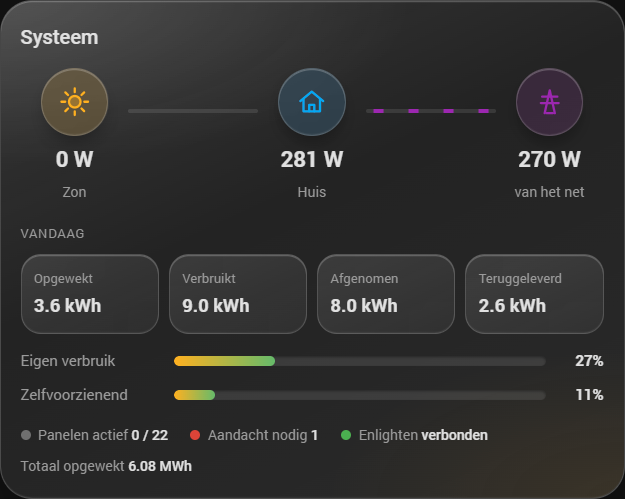
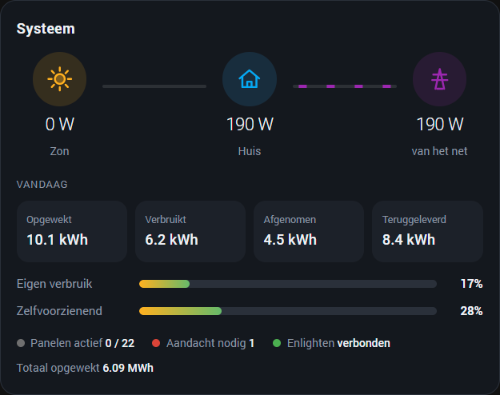
README images in the Clean style
Claude-Session: https://claude.ai/code/session_014Qd4FSKFXrHfbccyFUJVEu

diff --git a/custom_components/enphase_envoy_local/frontend/enphase-panel-layout-card.js b/custom_components/enphase_envoy_local/frontend/enphase-panel-layout-card.js
@@ -17,7 +17,7 @@
  *   demo: false                                    # fake sunny values (screenshots)
  */
 
-const CARD_VERSION = "1.22.1";
+const CARD_VERSION = "1.22.2";
 const TAG = "enphase-panel-layout-card";
 
 const PHASE_COLORS = { L1: "#8d6e63", L2: "#455a64", L3: "#9e9e9e" };
